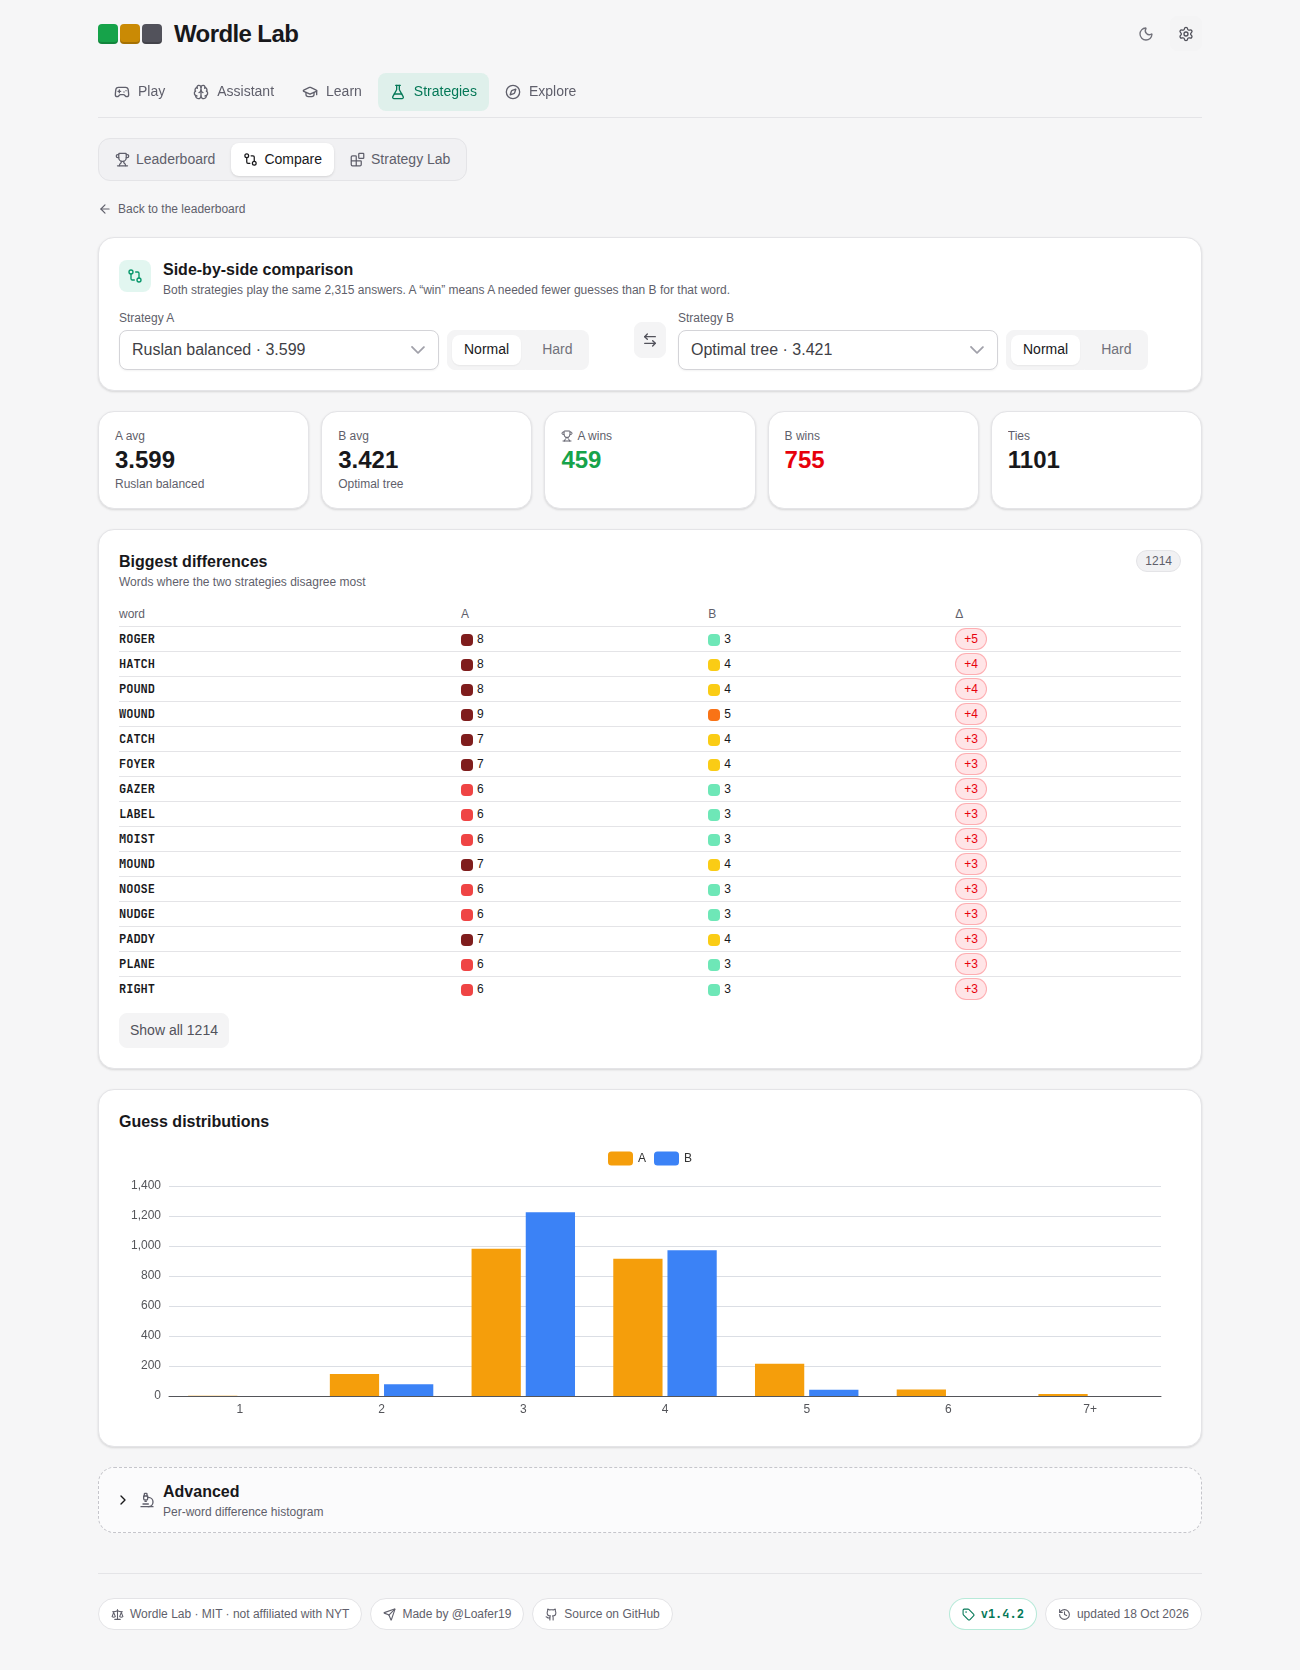
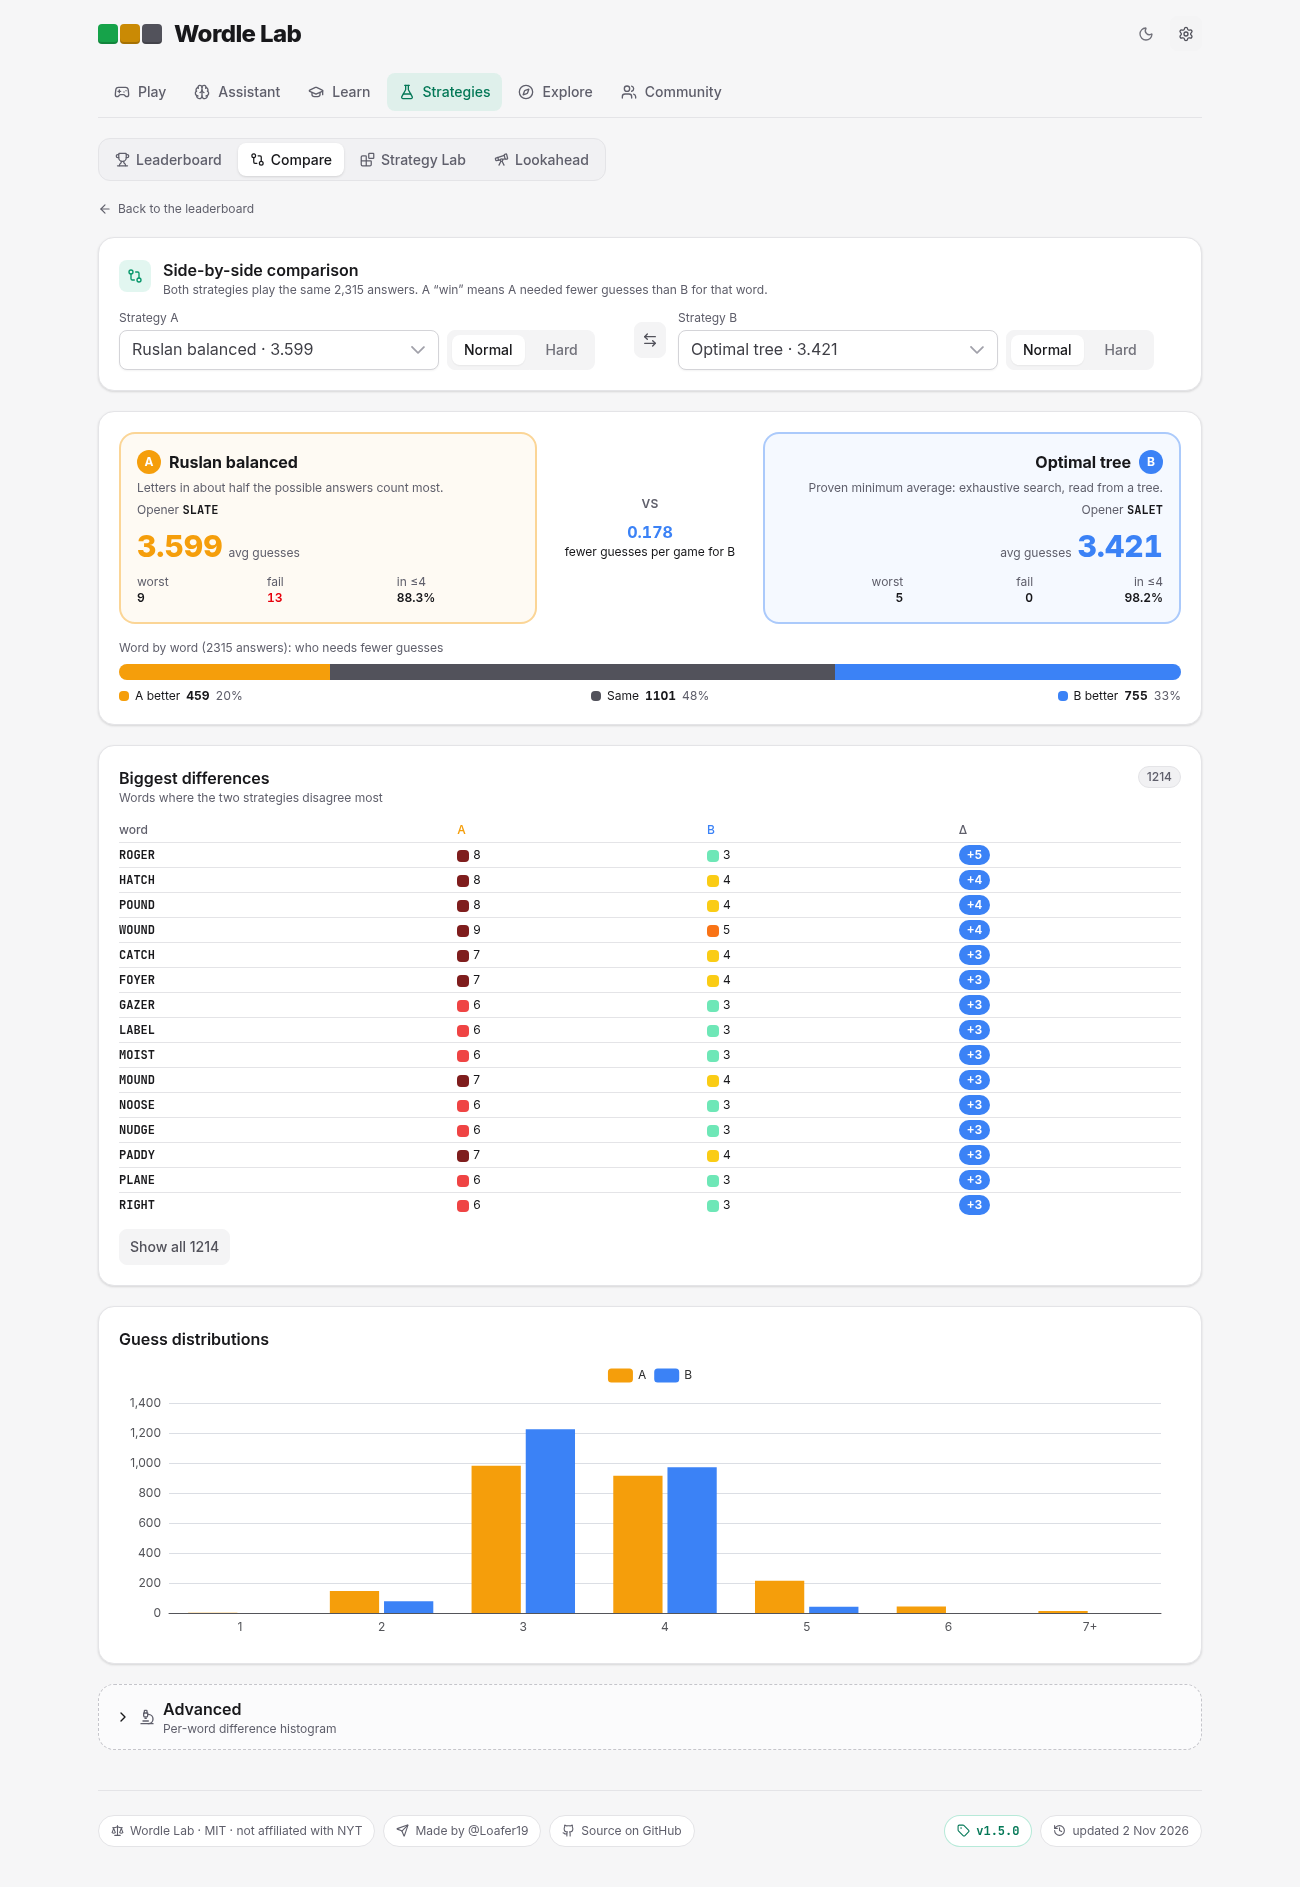
docs(readme): Strategies row describes the grouped leaderboard, head-to-head Compare and Lookahead page; fix drift
- 15 -> 18 strategies in the tagline (the leaderboard has 18 rows)
- refreshed leaderboard (EN, UA, phone) and compare (dark, light) screenshots via scripts/readme-shots.ts, alt texts updated
- notes on the e2e dictionary fixtures, the Caddyfile (precompressed br/gzip) and CI

diff --git a/README.md b/README.md
@@ -2,7 +2,7 @@
 
 # 🟩🟨⬛ Wordle Lab
 
-**Play Wordle, get a solver that explains every guess, and see how 15 strategies compare across all 2,315 answers (and 1,717 Ukrainian ones).**
+**Play Wordle, get a solver that explains every guess, and see how 18 strategies compare across all 2,315 answers (and 1,717 Ukrainian ones).**
 
 [![Live demo](https://img.shields.io/badge/live%20demo-wordle.fundsflow.fun-16a34a?style=for-the-badge)](https://wordle.fundsflow.fun)
 [![Release](https://img.shields.io/github/v/release/Loafer19/wordle-lab?style=for-the-badge&color=16a34a)](https://github.com/Loafer19/wordle-lab/releases/latest)
@@ -26,7 +26,7 @@
 | 🎮 **Play** | Daily word with a countdown to the next one, or random games. Hard mode, flip/bounce/confetti animations, stats and the **word's meaning**. After each game: a per-guess **review**, **how the optimal strategy solves the same word**, and a **share card** with your skill and luck. Your **player fingerprint** tracks skill and luck over time (stored in your browser). Cards follow the game: before the first guess you see your stats; during a game the **possible words** and **information per guess** come first (stats shrink to one line); after it the share card leads. On phones the board and keyboard always come first. |
 | 🧭 **Assistant** | **Help me now:** type your guess, tap the tiles to match your colours, and get the next best word with a plain-language reason (undo, demo, shortcuts, the provably optimal tree). The how-to hides once you have entered a guess. **Review a game:** paste any result, e.g. `ARISE(⬜⬜⬜🟨⬜) CLOTH(⬜⬜🟩🟨⬜)`. **Watch a strategy:** pick a word and a strategy and watch it play, optionally next to a second one; *Every strategy on this word* sits right under the replay, above the long guess-by-guess review. All three use the same per-guess card: bits gained vs expected, the best move by entropy and by the optimal tree, luck, and tips. |
 | 🎓 **Learn** | A four-step **guide** (letters → patterns → entropy → trees), a lesson on playing **Small groups in your head** (count the answers a guess leaves alone in their colour group; worked example with a scout word), letter and positional frequencies, the **top openers** (the at-a-glance table first, then the chart), and the **Word inspector** (all 243 colour patterns of any guess, its entropy and its worst case). The opener-pairs heatmap is under *Advanced*. |
-| 🧪 **Strategies** | One **leaderboard** of every strategy on every answer: average, gap to the proven optimum, fail % and worst case, with Normal/Hard/Both. Tick two rows to **Compare** them: KPIs, then the **biggest differences**, then the distributions chart. The **Strategy Lab** builds a strategy from blocks, with *Save as custom strategy* right under the builder, so saved strategies show up in the other views. More charts and Web Worker re-runs (cached in IndexedDB) are collapsed. |
+| 🧪 **Strategies** | One **leaderboard** of every strategy on every answer, **grouped by type** (Optimal trees, Lookahead, Greedy heuristics, Letter frequency & staged, Baselines) with the overall rank, a one-line description and the opener of each row: average, gap to the proven optimum, fail % and worst case, with Normal/Hard/Both; *Ranked* shows one flat list. Tick two rows to **Compare** them in a **head-to-head panel**: both strategies with their openers (A always amber, B always blue), the averages and the difference, a bar of the words where A is better / the same / B is better, and the worst case, failures and share of games in ≤ 4 for each side; then the **biggest differences** and the distributions chart. **Lookahead** explains the 2-ply strategies (precomputed trees, normal mode only) with the opener and parameter experiments. The **Strategy Lab** builds a strategy from blocks, with *Save as custom strategy* right under the builder, so saved strategies show up in the other views. More charts and Web Worker re-runs (cached in IndexedDB) are collapsed. |
 | 🔭 **Explore** | The optimal decision **Tree**, which you can also rebuild from **your own starting word** (computed in a Web Worker, with a *default vs. yours* table of average, worst case and the guess distribution, remembered per language), a **Flow** sankey of how the answer set shrinks, and an **Answer map** of how hard each word is. On phones, Tree and Flow switch to list drill-downs. |
 | 👥 **Community** | Curated links: competitive Wordle (World Wardle, Wordle Dash, The Arena Cup), videos and stories (3Blue1Brown, Alex Selby's proof, how Wordle was made and sold), Discord servers, and **notable words** from our own simulations: the hardest answers, hard-mode traps and one-letter families like _IGHT, each one click from *Watch a strategy*. |
 | 🇺🇦 **Ukrainian** | EN/UA switch in Settings: the whole interface in Ukrainian (Гра · Асистент · Навчання · Стратегії · Дослідження), Ukrainian word lists, a ЙЦУКЕН keyboard (ґ, є, і, ї), and every strategy simulated on Ukrainian answers. |
@@ -35,9 +35,9 @@
 Every tab and sub-view is a real link, e.g. `#tab=explore&view=tree`, so you can open views in new tabs and share them. Links from older versions (`#tab=solver`, `#tab=coach`, `#tab=analytics&view=patterns`, …) redirect to their new places. On phones the six tabs are a bottom bar.
 
 <table>
-<tr><td><img src="docs/readme/play-after.png" alt="Play after a game: share card, stats, word meaning, review, optimal replay, fingerprint"/></td><td><img src="docs/readme/leaderboard.png" alt="Strategy leaderboard"/></td></tr>
+<tr><td><img src="docs/readme/play-after.png" alt="Play after a game: share card, stats, word meaning, review, optimal replay, fingerprint"/></td><td><img src="docs/readme/leaderboard.png" alt="Strategy leaderboard grouped by type"/></td></tr>
 <tr><td><img src="docs/readme/watch.png" alt="Assistant: watch a strategy, every strategy on this word, then the review"/></td><td><img src="docs/readme/tree-opener.png" alt="Tree built from your own starting word (CRANE) compared with SALET"/></td></tr>
-<tr><td><img src="docs/readme/light-compare.png" alt="Compare (light theme): biggest differences above the chart"/></td><td><img src="docs/readme/dark-flow.png" alt="Flow"/></td></tr>
+<tr><td><img src="docs/readme/light-compare.png" alt="Compare (light theme): the head-to-head panel, biggest differences, then the chart"/></td><td><img src="docs/readme/dark-flow.png" alt="Flow"/></td></tr>
 <tr><td><img src="docs/readme/light-patterns.png" alt="Learn: word inspector (light theme)"/></td><td><img src="docs/readme/ua-leaderboard.png" alt="Ukrainian leaderboard"/></td></tr>
 </table>
 <p align="center"><img src="docs/readme/ua-play-mob.png" alt="UA on a phone" width="240"/> <img src="docs/readme/leaderboard-mob.png" alt="Leaderboard as cards on a phone" width="240"/> <img src="docs/readme/tree-mob.png" alt="Tree with a custom starting word and the list drill-down on a phone" width="240"/></p>
@@ -140,7 +140,8 @@ bun run dev          # http://localhost:5173
 bun run build        # static site in dist/
 bun run simulate     # recompute public/sim/*, results.json, optimal tree, opener pairs
 bun run test:unit    # engine, coach, routes/redirects, fingerprint, custom-opener trees
-bun run test:e2e     # Playwright regression tests against the dev server (needs Chrome; CHROME=/path, BASE_URL=… to override)
+bun run test:e2e     # Playwright regression tests against the dev server (needs Chrome; CHROME=/path, BASE_URL=… to override;
+                     # definition APIs are served from tests/e2e/fixtures, E2E_LIVE_DICT=1 calls the real ones)
 bun scripts/i18n-check.ts           # every UI string has a Ukrainian translation
 OUT=shots bun scripts/shots.ts      # screenshots of every view (EN/UA × desktop/390px) + overflow/console check
 BASE_URL=http://localhost:4173 bun scripts/readme-shots.ts  # README images in docs/readme/ (against `vite preview`)
@@ -148,7 +149,9 @@ bun scripts/notable.ts              # Community › notable words (public/notabl
 bun run definitions  # optional: precompute word meanings into data/ and public/
 ```
 
-Docker: `docker build -t wordle-lab . && docker run -p 8080:80 wordle-lab` (Bun build, served by Caddy).
+Docker: `docker build -t wordle-lab . && docker run -p 8080:80 wordle-lab` (Bun build, served by Caddy with the [`Caddyfile`](Caddyfile): precompressed brotli/gzip from the build, immutable caching for `/assets/*`).
+
+CI: [`.github/workflows/ci.yml`](.github/workflows/ci.yml) runs the build, the unit tests and the i18n check on every push to `main` and every pull request (e2e stays local, it needs Chrome and takes about 9 minutes).
 
 ## 🙏 Credits & data
 
